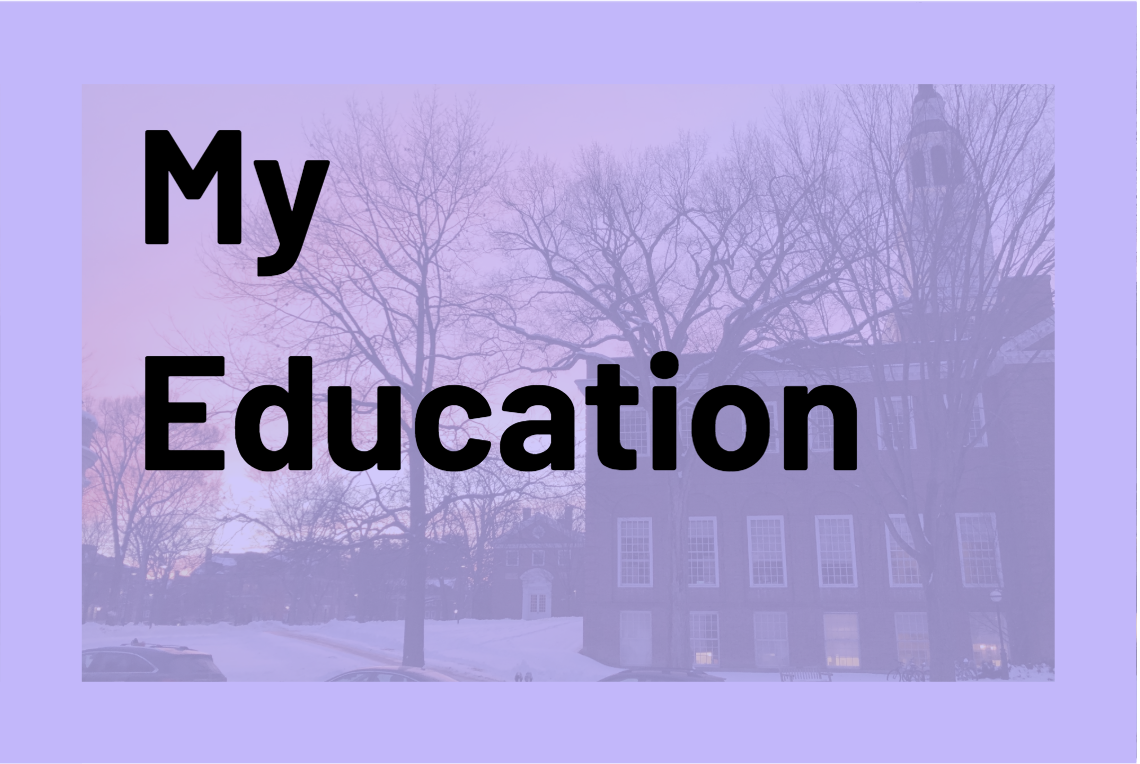
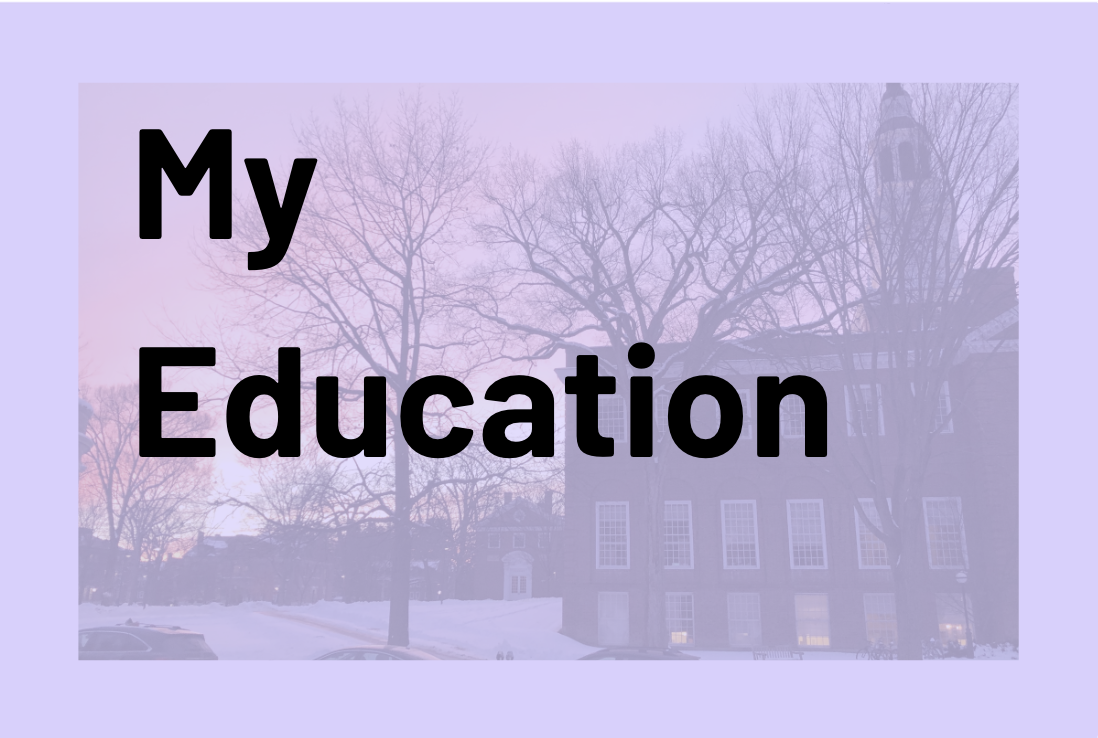
fixing education

diff --git a/index.html b/index.html
@@ -52,7 +52,7 @@ https://www.w3schools.com/css/tryit.asp?filename=trycss_table_border_divider -->
       }
 
       .education{
-        background-color: #C6B5FF;
+        background-color: #dacfff;
         padding: 50px;
       }
 
@@ -125,17 +125,19 @@ https://www.w3schools.com/css/tryit.asp?filename=trycss_table_border_divider -->
         font-size: 20px;
         margin-top: 5px;
         padding: 5px;
+        line-height: 25px;
       }
 
       table {
         border-collapse: collapse;
         width: 100%;
         margin-bottom: 20px;
+        table-layout: fixed;
       }
 
       th, td {
         padding: 20px;
-        text-align: center;
+        text-align: left;
         border-bottom: 1px solid black;
         font-size: 20px;
       }
@@ -222,7 +224,7 @@ https://www.w3schools.com/css/tryit.asp?filename=trycss_table_border_divider -->
     <h4>2018-2022</h4>
     <!-- body text -->
     <ul class="school">
-      <p>Dartmouth College, Hanover, NH, GPA 4.0/4.0</p>
+      <p>Dartmouth College, Hanover, NH</p>
       <li>Bachelor of Arts: Double Major in Mathematics and Economics,
       Minor in Computer Science</li>
       <li>Relevant Coursework:</li>
@@ -266,7 +268,7 @@ https://www.w3schools.com/css/tryit.asp?filename=trycss_table_border_divider -->
         on Secretariat, Leadership and Offensive Award on JV2 Soccer,
         National Honor Society Treasurer, Spanish National Honor Society</li>
     </ul>
-    <p style="margin-top: 50px">If you happened to briefly glance over that
+    <!-- <p style="margin-top: 50px">If you happened to briefly glance over that
       jumble of letters because you have seen it many a time before, or because
       you are looking for something else, don't worry, I have a bit more.</p>
     <p style="margin-top: 50px">My education is my most prized possession. I
@@ -283,7 +285,7 @@ https://www.w3schools.com/css/tryit.asp?filename=trycss_table_border_divider -->
       feeling the thrill of learning, or connecting the joy on someone's face to
       the little flutter I get in my heart when they learn something from
       me. I hope to continue learning and helping others learn for the rest
-      of my life.</p>
+      of my life.</p> -->
     </div>
   </div>
 
